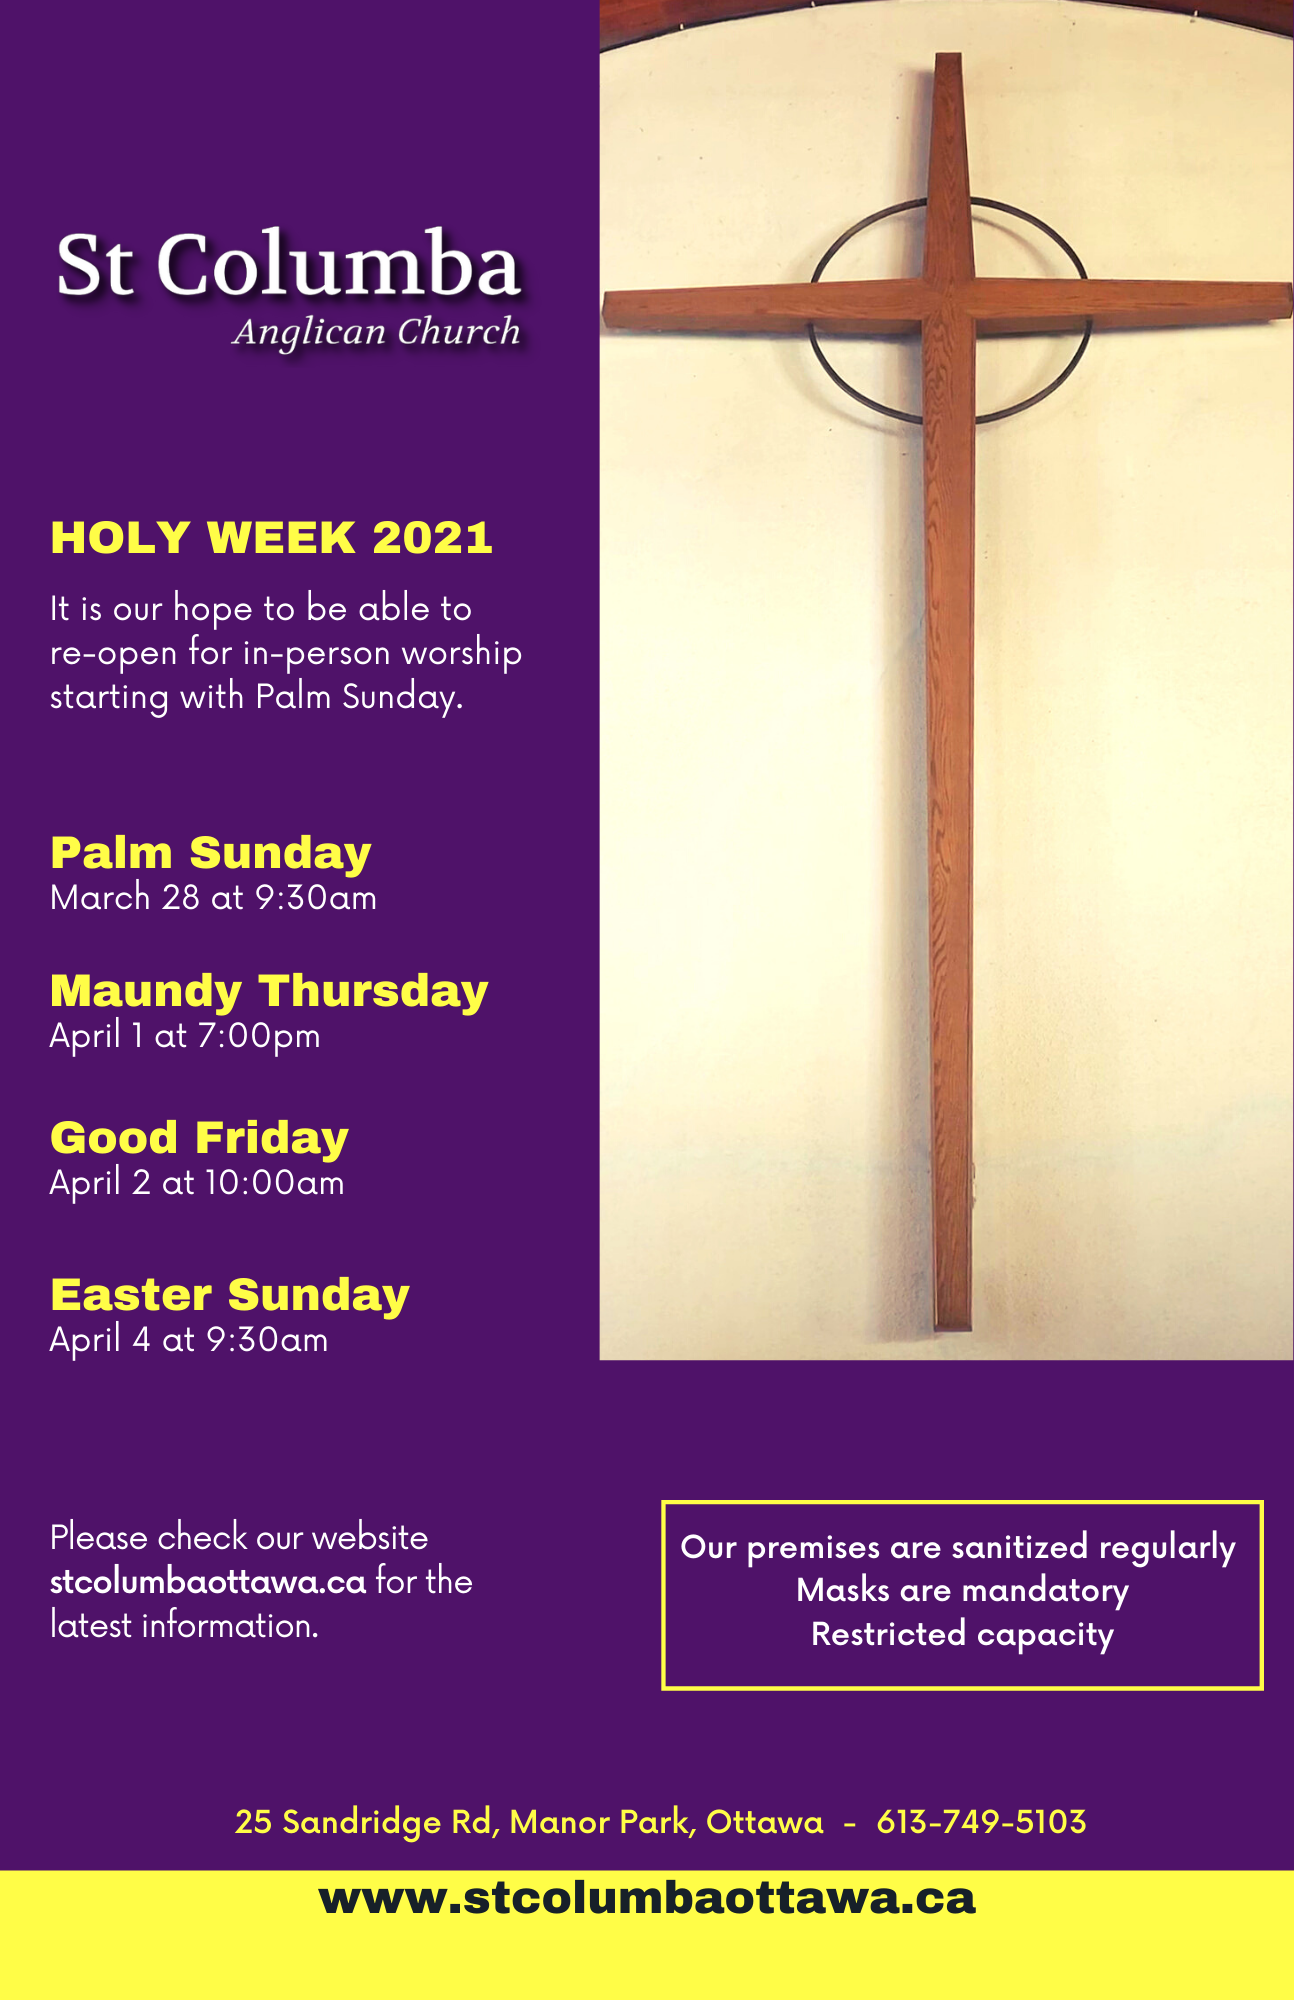
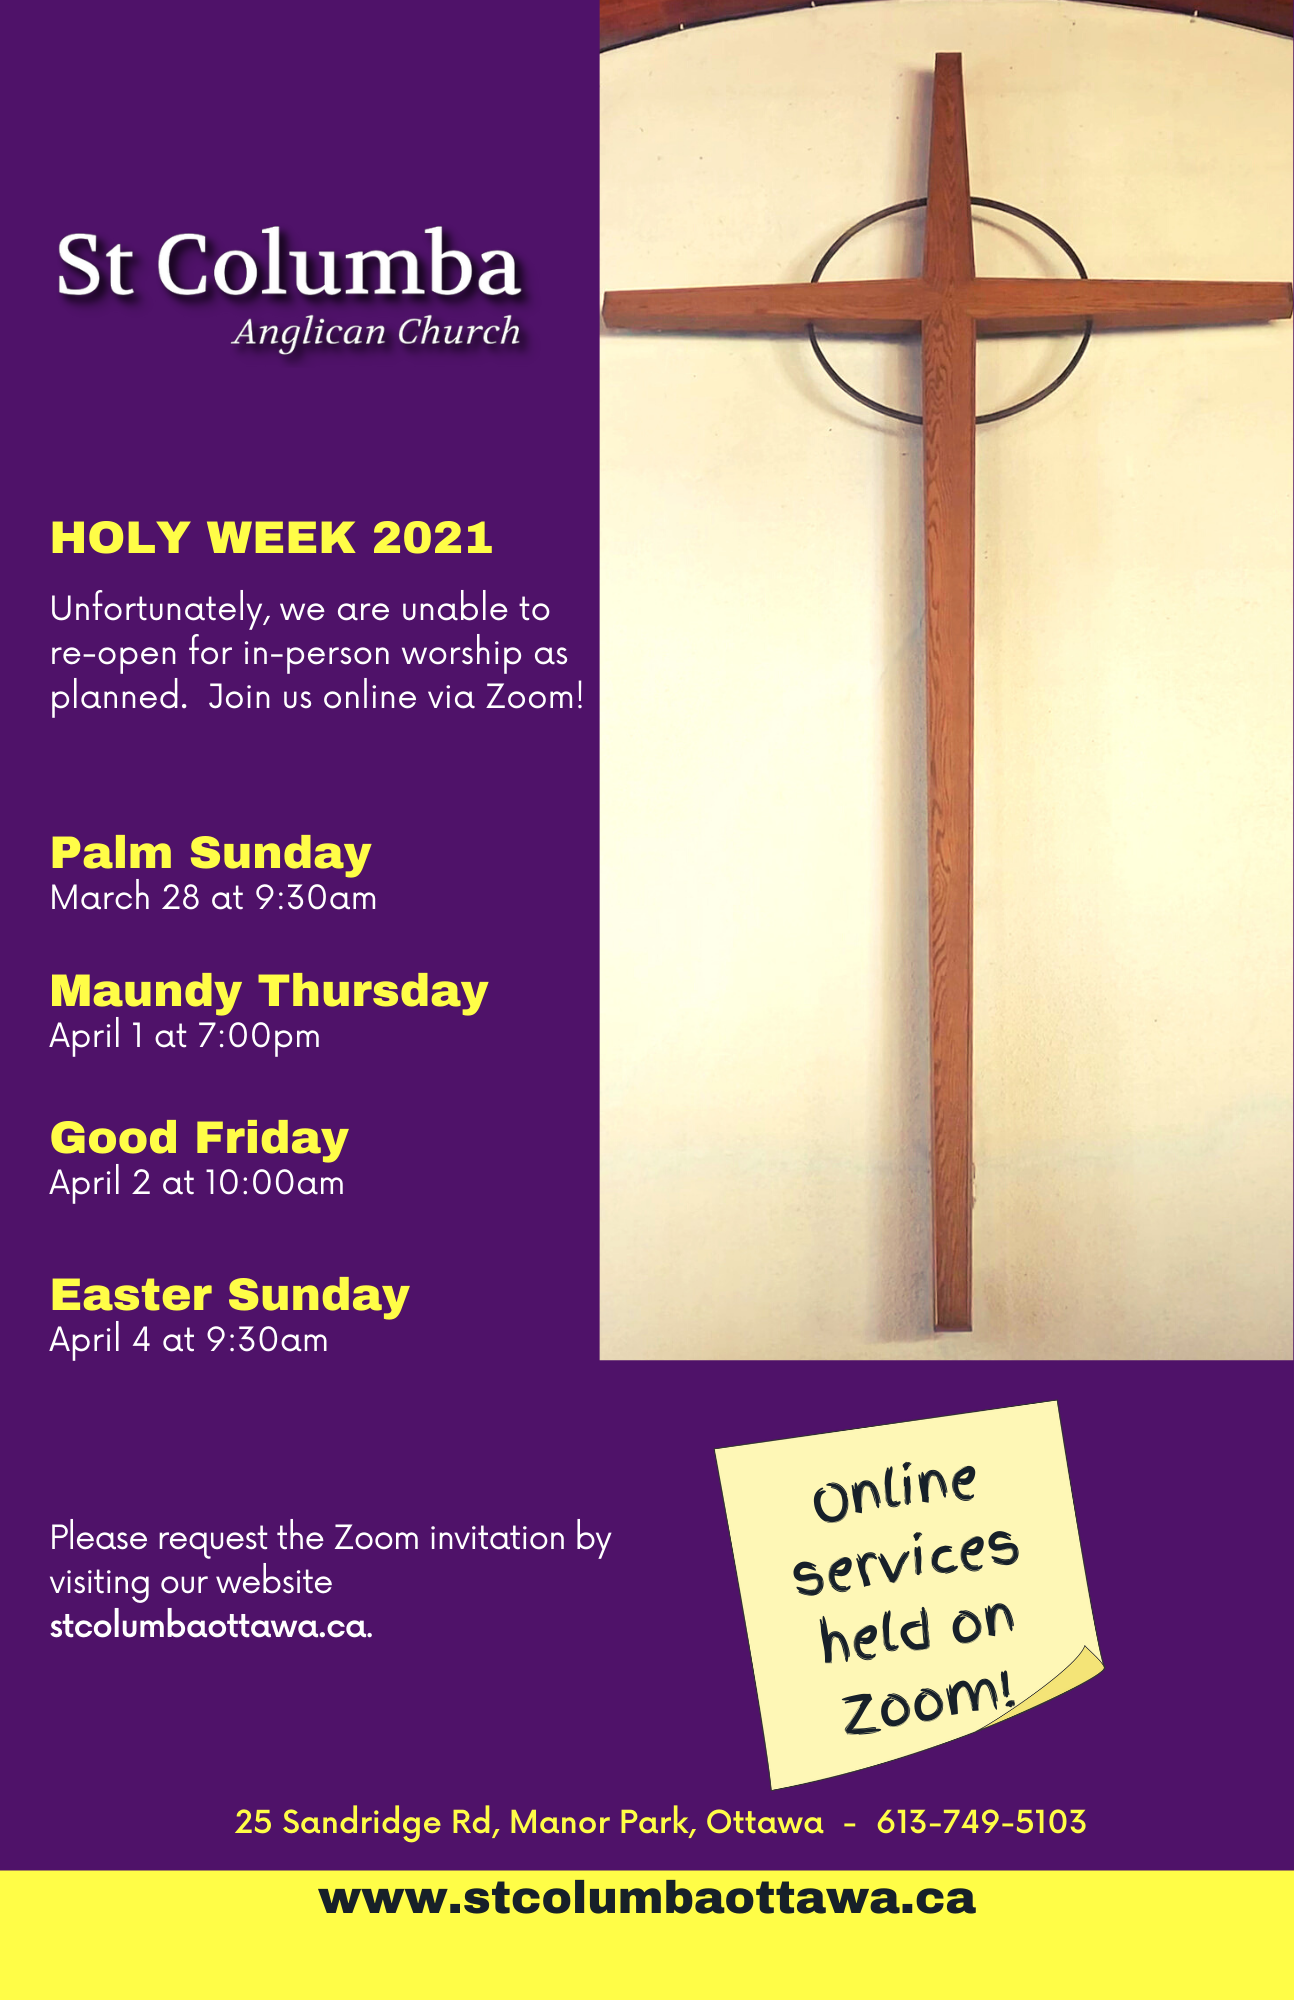
Cancelled re-opening.

diff --git a/pages/pages-root-folder/index.md b/pages/pages-root-folder/index.md
@@ -29,7 +29,7 @@ widget2:
   title: "COVID-19"
   url: /2021/red-stage/
   image: widget-covid-19-640x384.png
-  text: "In-person worship services and facility rentals have been suspended. We hope to be able to re-open on March 28."
+  text: "In-person worship services and facility rentals have been suspended."
 #  url: /2020/amber-stage-update/
 #  text: "Precautions have been put in place following the diocese pandemic plan to ensure a safe worship space.<br/>Due to the provincial lockdown, in-person worship services will be suspended from December 26 until January 23."
 
@@ -37,7 +37,7 @@ widget3:
   title: "Holy Week"
   url: /2021/holy-week/
   image: widget-holy-week-2020-640x384.png
-  text: "Holy Week services begin on March 28.  We hope to be able to have in-person services.  Please return to our website to confirm."
+  text: "Holy Week services begin on March 28.  Unfortunately, our plans for in-person worship have been cancelled.  We will host Holy Week services online via Zoom at the same scheduled times."
 
 #widget3:
 #  title: "Facilities"

diff --git a/_posts/2021-03-07-holy-week.md b/_posts/2021-03-07-holy-week.md
@@ -13,10 +13,10 @@ header: no
 image:
     title: poster-holy-week-2021.png
 ---
-It is our hope to be able to re-open for in-person worship starting with Palm Sunday. 
+Unfortunately, due to Ottawa moving into provincial red zone restrictions, we are unable re-open for in-person worship in time for Holy Week.  Therefore, the following services will be held online via Zoom.
+
 * **Palm Sunday**, March 28, 2021 - 9:30am.
 * **Maundy Thursday**, April 1, 2021 - 7:00pm.
 * **Good Friday**, April 2, 2021 - 10:00am.
 * **Easter Sunday**, April 4, 2021 - 9:30am.
 
-Please return to check our website for the latest information.
